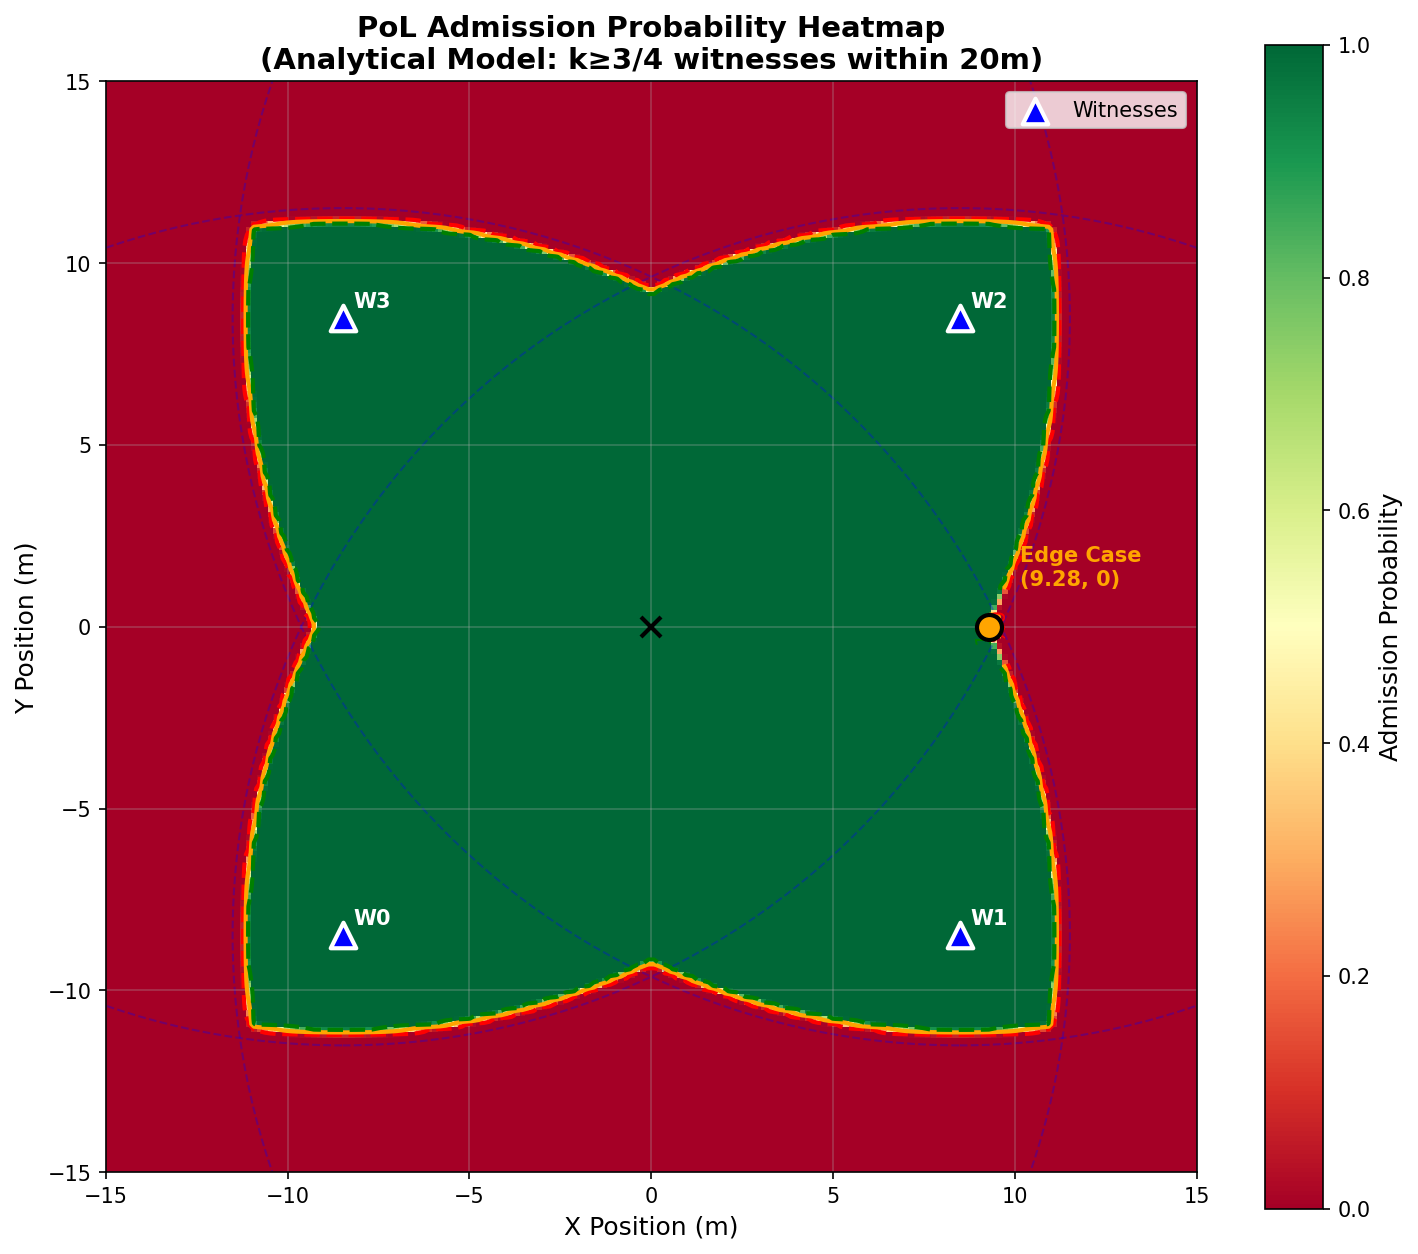
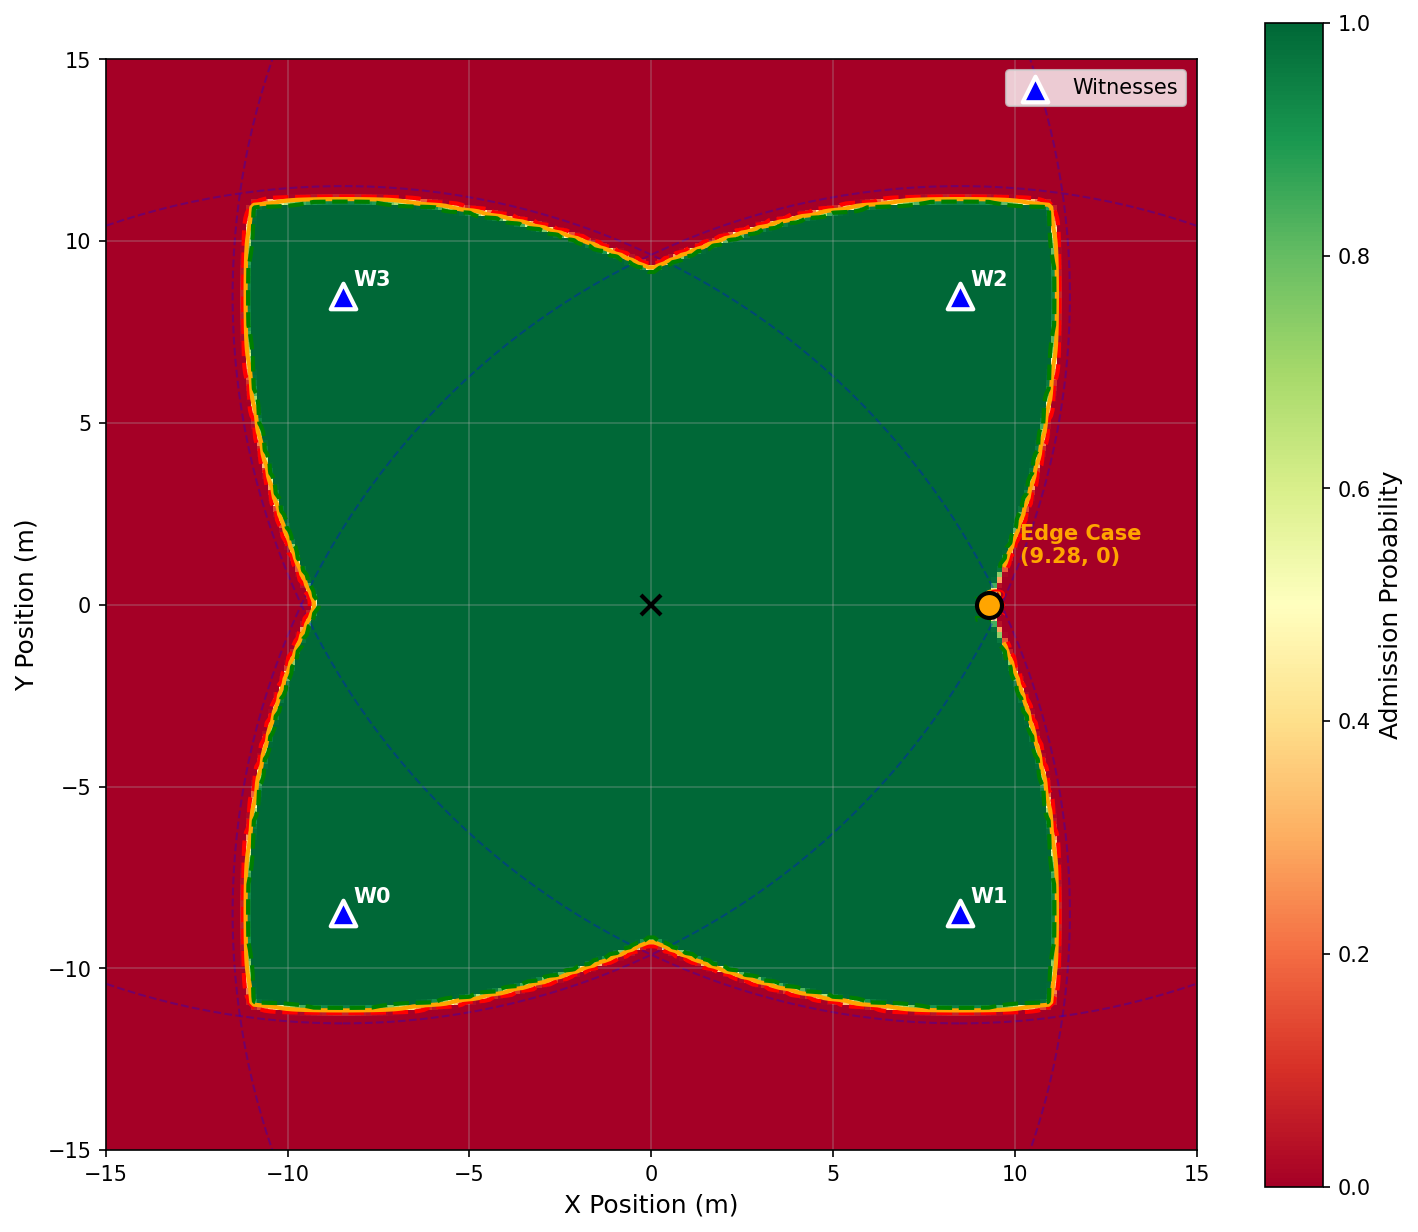
Remove title from probability heatmap

diff --git a/probability_heatmap.py b/probability_heatmap.py
@@ -161,8 +161,8 @@ def plot_heatmap(X, Y, prob_grid, witnesses, output_file: str = "probability_hea
     ax.set_ylim(-15, 15)
     ax.set_xlabel('X Position (m)', fontsize=12)
     ax.set_ylabel('Y Position (m)', fontsize=12)
-    ax.set_title('PoL Admission Probability Heatmap\n(Analytical Model: k≥3/4 witnesses within 20m)', 
-                 fontsize=14, fontweight='bold')
+    # ax.set_title('PoL Admission Probability Heatmap\n(Analytical Model: k≥3/4 witnesses within 20m)', 
+    #              fontsize=14, fontweight='bold')
     ax.set_aspect('equal')
     ax.grid(True, alpha=0.3)
     ax.legend(loc='upper right')
